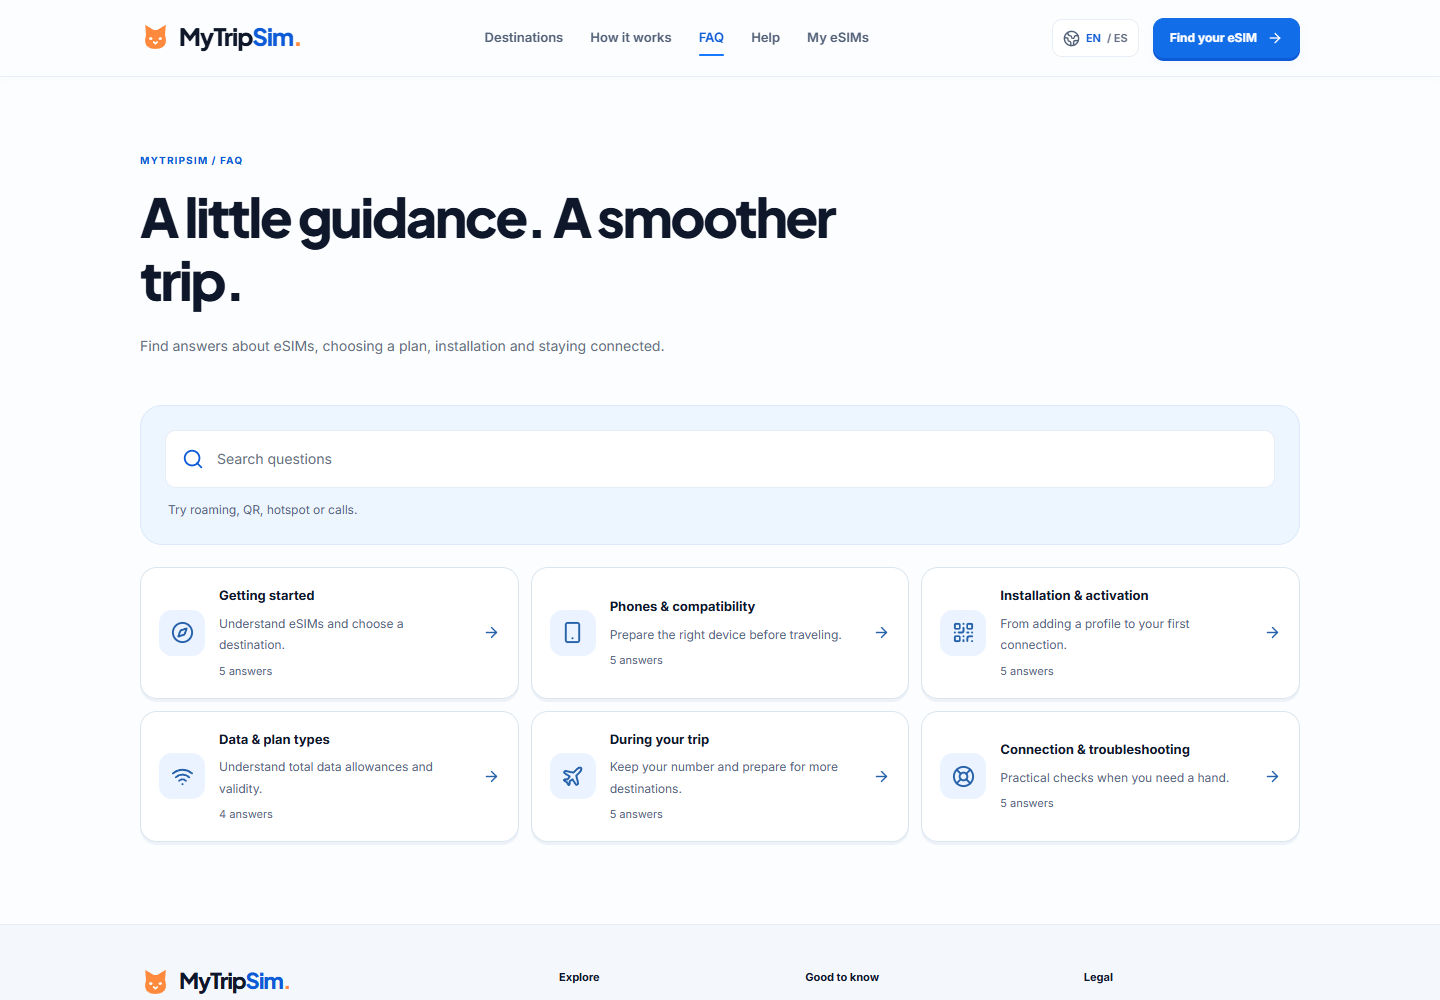
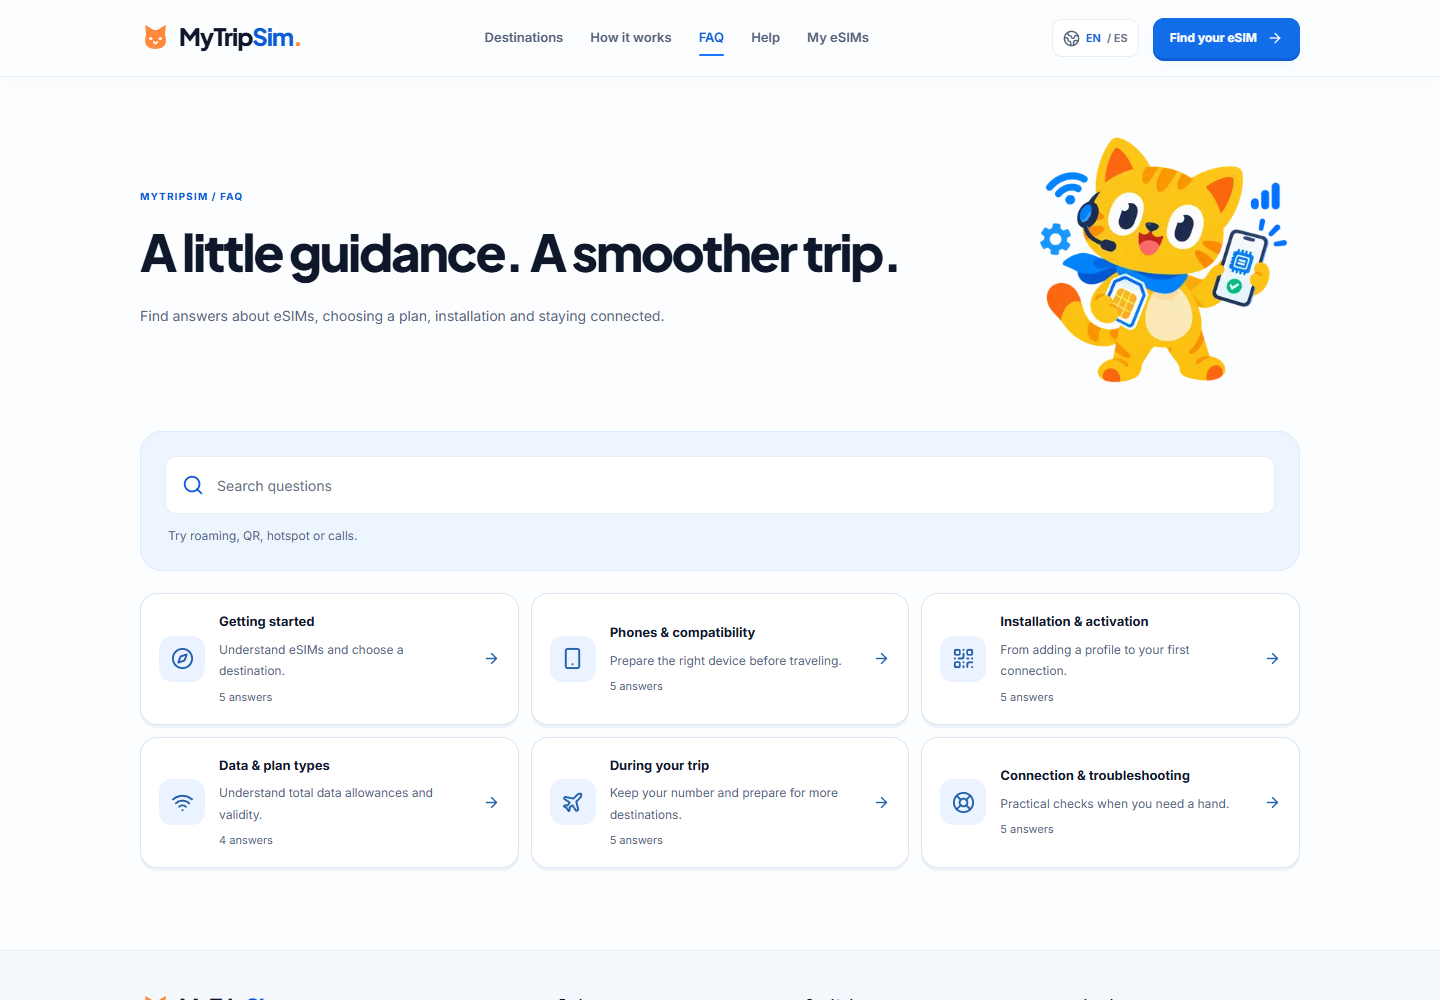
feat: integrate SIM mascot across home and guides

diff --git a/src/styles/sim-mascot.css b/src/styles/sim-mascot.css
@@ -1,0 +1,182 @@
+.sim-mascot {
+  display: block;
+  max-width: 100%;
+  height: auto;
+  object-fit: contain;
+}
+.sim-hero-visual {
+  min-width: 0;
+  position: relative;
+  display: grid;
+  justify-items: center;
+  align-content: center;
+  width: 100%;
+  max-width: 490px;
+  margin-inline: auto;
+  isolation: isolate;
+}
+.sim-hero-visual::before {
+  content: "";
+  position: absolute;
+  inset: 7% 6% 17%;
+  border-radius: 50%;
+  background: #edf5ff;
+  z-index: -1;
+}
+.sim-hero-mascot {
+  width: 440px;
+}
+.sim-hero-status {
+  display: flex;
+  align-items: center;
+  gap: 11px;
+  padding: 12px 17px;
+  background: #fff;
+  border: 1px solid #dbe5ef;
+  border-radius: 15px;
+  box-shadow: 0 4px 0 #edf2f8;
+  margin-top: -8px;
+  position: relative;
+}
+.sim-hero-status > svg {
+  flex-shrink: 0;
+  color: #175ca6;
+}
+.sim-hero-status strong {
+  display: block;
+  color: #233c5c;
+  font-size: 12px;
+  line-height: 1.7;
+}
+.sim-hero-status span {
+  display: block;
+  color: #56677e;
+  font-size: 11px;
+  margin-top: 2px;
+}
+.sim-hero-caption {
+  font-size: 11px;
+  line-height: 1.8;
+  color: #56677e;
+  text-align: center;
+  margin-top: 15px;
+}
+.sim-faq-heading {
+  display: grid;
+  grid-template-columns: minmax(0, 1fr) 280px;
+  align-items: center;
+  gap: 45px;
+  padding-block: 42px 32px;
+}
+.sim-faq-copy .eyebrow {
+  margin-bottom: 17px;
+}
+.sim-faq-copy h1 {
+  font-size: clamp(34px, 4.5vw, 51px);
+  line-height: 1.2;
+  font-weight: 800;
+  letter-spacing: -0.045em;
+  text-wrap: balance;
+}
+.sim-faq-copy > p:last-child {
+  color: #56677e;
+  font-size: 14px;
+  line-height: 1.9;
+  margin-top: 21px;
+  max-width: 650px;
+}
+.faq-sim-mascot {
+  width: 280px;
+  justify-self: center;
+}
+.how-heading:has(.how-sim-mascot) {
+  padding-top: 24px;
+}
+.how-sim-mascot {
+  width: 208px;
+  margin: 0 auto 15px;
+}
+@media (max-width: 900px) {
+  .sim-faq-heading {
+    grid-template-columns: minmax(0, 1fr) 220px;
+    gap: 25px;
+  }
+  .faq-sim-mascot {
+    width: 220px;
+  }
+}
+@media (max-width: 650px) {
+  .sim-hero-visual {
+    grid-template-columns: 132px minmax(0, 1fr);
+    gap: 7px;
+    max-width: none;
+    background: #edf5ff;
+    border: 1px solid #dceafb;
+    border-radius: 20px;
+    padding: 5px 12px 5px 2px;
+  }
+  .sim-hero-visual::before {
+    display: none;
+  }
+  .sim-hero-mascot {
+    width: 132px;
+  }
+  .sim-hero-status {
+    padding: 0;
+    background: transparent;
+    border: 0;
+    box-shadow: none;
+    margin: 0;
+    gap: 7px;
+  }
+  .sim-hero-status strong {
+    font-size: 11px;
+  }
+  .sim-hero-status span {
+    font-size: 10px;
+  }
+  .sim-hero-caption {
+    display: none;
+  }
+  .sim-faq-heading {
+    grid-template-columns: 1fr;
+    gap: 17px;
+    padding-block: 22px 27px;
+    text-align: center;
+  }
+  .faq-sim-mascot {
+    grid-row: 1;
+    width: 136px;
+  }
+  .sim-faq-copy h1 {
+    font-size: 34px;
+  }
+  .sim-faq-copy .eyebrow {
+    justify-content: center;
+    margin-bottom: 13px;
+  }
+  .sim-faq-copy > p:last-child {
+    font-size: 13px;
+    margin-top: 16px;
+  }
+  .how-sim-mascot {
+    width: 144px;
+    margin-bottom: 13px;
+  }
+  .how-heading:has(.how-sim-mascot) {
+    padding-top: 20px;
+  }
+}
+@media (max-width: 360px) {
+  .sim-hero-visual {
+    grid-template-columns: 110px minmax(0, 1fr);
+    gap: 4px;
+    padding-right: 9px;
+  }
+  .sim-hero-mascot {
+    width: 110px;
+  }
+  .sim-hero-status > svg {
+    display: none;
+  }
+}

diff --git a/src/components/home/hero.tsx b/src/components/home/hero.tsx
@@ -1,7 +1,7 @@
-import { Check, Plane, Signal, Wifi } from "lucide-react";
+import { Check } from "lucide-react";
 import { dictionaries, type Locale } from "@/lib/i18n";
 import { DestinationSearch } from "../destination-search";
-import { MascotIllustration } from "../illustrations";
+import { SimMascot } from "../sim-mascot";
 
 export function Hero({ locale }: { locale: Locale }) {
   const t = dictionaries[locale];
@@ -24,46 +24,22 @@ export function Hero({ locale }: { locale: Locale }) {
           {t.heroNote}
         </p>
       </div>
-      <div className="hero-visual" aria-label={t.visualTag}>
-        <div className="travel-backdrop" aria-hidden="true">
-          <span className="travel-cloud cloud-one" />
-          <span className="travel-cloud cloud-two" />
-          <span className="travel-sun" />
-          <span className="travel-horizon" />
-        </div>
-        <svg
-          className="flight-path"
-          viewBox="0 0 460 420"
-          fill="none"
-          aria-hidden="true"
-        >
-          <path
-            d="M48 180C40 65 230 5 355 90c76 53 53 154-30 162"
-            stroke="#C3DAEF"
-            strokeWidth="2"
-            strokeDasharray="5 8"
-          />
-        </svg>
-        <span className="floating-icon wifi-float">
-          <Wifi size={26} strokeWidth={2.2} />
-        </span>
-        <span className="floating-icon plane-float">
-          <Plane size={25} strokeWidth={1.8} />
-        </span>
-        <div className="mascot-stage">
-          <MascotIllustration className="hero-mascot" />
-        </div>
-        <div className="connection-card">
-          <span className="connection-check">
-            <Check size={17} />
-          </span>
+      <div className="sim-hero-visual">
+        <SimMascot
+          variant="traveler"
+          locale={locale}
+          className="sim-hero-mascot"
+          sizes="(max-width: 360px) 110px, (max-width: 650px) 132px, 440px"
+          eager
+        />
+        <div className="sim-hero-status">
+          <Check size={20} aria-hidden="true" />
           <div>
             <strong>{t.visualStatus}</strong>
             <span>MyTripSim eSIM</span>
           </div>
-          <Signal size={21} />
         </div>
-        <p className="visual-caption">{t.visualLabel}</p>
+        <p className="sim-hero-caption">{t.visualLabel}</p>
       </div>
     </section>
   );

diff --git a/src/app/[locale]/[page]/page.tsx b/src/app/[locale]/[page]/page.tsx
@@ -8,6 +8,7 @@ import { HelpHub } from "@/components/help-hub";
 import { helpContent } from "@/lib/help-content";
 import { catalogCopy } from "@/lib/catalog-copy";
 import { HowItWorksPage } from "@/components/how-it-works-page";
+import { SimMascot } from "@/components/sim-mascot";
 import {
   dictionaries,
   isLocale,
@@ -113,11 +114,28 @@ export default async function ContentPage({
   const [title, description] = heading(locale, key);
   return (
     <>
-      <section className="page-heading container">
-        <p className="eyebrow">MYTRIPSIM / {t.nav[key]}</p>
-        <h1>{title}</h1>
-        <p>{description}</p>
-      </section>
+      {key === "faq" ? (
+        <header className="container sim-faq-heading">
+          <div className="sim-faq-copy">
+            <p className="eyebrow">MYTRIPSIM / {t.nav.faq}</p>
+            <h1>{title}</h1>
+            <p>{description}</p>
+          </div>
+          <SimMascot
+            variant="help"
+            locale={locale}
+            className="faq-sim-mascot"
+            sizes="(max-width: 650px) 136px, (max-width: 900px) 220px, 280px"
+            eager
+          />
+        </header>
+      ) : (
+        <section className="page-heading container">
+          <p className="eyebrow">MYTRIPSIM / {t.nav[key]}</p>
+          <h1>{title}</h1>
+          <p>{description}</p>
+        </section>
+      )}
       {key === "destinations" && (
         <section className="container directory-section">
           <DestinationDirectory locale={locale} />

diff --git a/src/components/sim-mascot.tsx b/src/components/sim-mascot.tsx
@@ -1,0 +1,48 @@
+import Image from "next/image";
+import type { Locale } from "@/lib/i18n";
+
+const illustrations = {
+  traveler: {
+    src: "/images/sim/sim_traveler.png",
+    es: "SIM, la mascota de MyTripSim, viajando con su maleta",
+    en: "SIM, the MyTripSim mascot, travelling with a suitcase",
+  },
+  help: {
+    src: "/images/sim/sim_help.png",
+    es: "SIM con sus auriculares y un teléfono, listo para ayudarte",
+    en: "SIM wearing a headset and holding a phone, ready to help",
+  },
+  adventurer: {
+    src: "/images/sim/sim_adeventurer.png",
+    es: "SIM aventurero volando sobre una tarjeta SIM",
+    en: "SIM the adventurer flying on a SIM card",
+  },
+} as const;
+
+export function SimMascot({
+  variant,
+  locale,
+  className = "",
+  sizes,
+  eager = false,
+}: {
+  variant: keyof typeof illustrations;
+  locale: Locale;
+  className?: string;
+  sizes: string;
+  eager?: boolean;
+}) {
+  const illustration = illustrations[variant];
+  return (
+    <Image
+      className={`sim-mascot ${className}`}
+      src={illustration.src}
+      alt={illustration[locale]}
+      width={1280}
+      height={1280}
+      sizes={sizes}
+      loading={eager ? "eager" : "lazy"}
+      fetchPriority={eager ? "high" : undefined}
+    />
+  );
+}

diff --git a/src/components/how-it-works-page.tsx b/src/components/how-it-works-page.tsx
@@ -12,6 +12,7 @@ import {
 import { dictionaries, pathFor, type Locale } from "@/lib/i18n";
 import { experiencePath } from "@/lib/experience-routes";
 import { catalogCopy } from "@/lib/catalog-copy";
+import { SimMascot } from "./sim-mascot";
 
 export function HowItWorksPage({ locale }: { locale: Locale }) {
   const t = dictionaries[locale];
@@ -20,6 +21,13 @@ export function HowItWorksPage({ locale }: { locale: Locale }) {
   return (
     <div className="container how-page">
       <header className="how-heading">
+        <SimMascot
+          variant="adventurer"
+          locale={locale}
+          className="how-sim-mascot"
+          sizes="(max-width: 650px) 144px, 208px"
+          eager
+        />
         <p className="eyebrow">MYTRIPSIM / {t.nav.how}</p>
         <h1>{t.howTitle}</h1>
         <p>{t.howDescription}</p>

diff --git a/src/app/layout.tsx b/src/app/layout.tsx
@@ -9,6 +9,7 @@ import "@/styles/experience.css";
 import "@/styles/compatibility.css";
 import "@/styles/plan-selection.css";
 import "@/styles/how-it-works.css";
+import "@/styles/sim-mascot.css";
 
 export const viewport: Viewport = {
   width: "device-width",

diff --git a/docs/verification.md b/docs/verification.md
@@ -1,5 +1,11 @@
 # Verification — 2026-10-23
 
+## SIM mascot illustrations — 2026-10-24
+
+The supplied transparent PNG illustrations are now mapped through a shared `SimMascot` image component: Traveler replaces the old hero character, Help accompanies the FAQ directory heading, and Adventurer sits in the centered How it works heading. The source file `sim_adeventurer.png` retains its existing spelling. Original images are unmodified; `next/image` supplies responsive sources with intrinsic dimensions and localized alternative text. The home hero uses a simple backdrop and compact status label instead of duplicating the illustration's own travel symbols. On phones, its compact image/status row keeps destination search first. FAQ topic pages retain their independent question layout.
+
+Production build including TypeScript, lint and formatting passed. All twenty existing site/FAQ desktop/mobile browser scenarios passed. A focused audit of the six localized home, FAQ-directory and How it works pages returned no findings across seven widths (320–1440px), with axe WCAG A/AA checks at 360/1440px including FAQ search results. Reviewed the [Traveler hero](previews/home-desktop.png), [compact mobile hero](previews/mobile-app.png), [Help FAQ heading](previews/faq-desktop.png) and [Adventurer heading](previews/how-mobile.png). No additional services or credentials were introduced.
+
 ## Organized How it works page — 2026-10-24
 
 The localized How it works page now has a dedicated server-rendered layout and scoped styles. A centered introduction, a numbered three-card sequence and a preparation panel share one bounded reading grid. Preparation groups the checklist with compatibility/installation links, and the destination/FAQ actions sit together in one footer row (stacked at phone widths). Long checklist and card text stay left-aligned for reading. The home page's shared Steps component and the existing metadata/routes remain in place.

diff --git a/README.md b/README.md
@@ -28,7 +28,7 @@ No se necesitan variables de entorno ni credenciales para esta fase. `.env.examp
 
 - Next.js App Router, TypeScript estricto, Tailwind CSS 4, Lucide, ESLint y Prettier. Componentes nativos accesibles en lugar de agregar una biblioteca de UI sin necesidad.
 - Portada breve con búsqueda, duración opcional, seis destinos destacados y enlaces a páginas independientes de guías y FAQ.
-- Identidad azul/naranja, Plus Jakarta Sans e Inter mediante `next/font`, sistema de tokens, gato viajero SVG original y miniaturas ilustradas reemplazables mediante `next/image`.
+- Identidad azul/naranja, Plus Jakarta Sans e Inter mediante `next/font`, sistema de tokens y mascota SIM: Traveler en la portada, Help en el índice FAQ y Adventurer en Cómo funciona. Las imágenes originales de `public/images/sim/` conservan su transparencia y se sirven mediante `next/image` con tamaños adaptables.
 - Diccionarios centralizados, rutas traducidas y cambio de idioma que conserva la página equivalente. El cambio de idioma realiza navegación de documento para actualizar correctamente `<html lang>`; el resto utiliza navegación de Next.js.
 - Búsqueda local insensible a mayúsculas y tildes, alias en ambos idiomas, teclado, cierre con Escape y estados vacíos.
 - Directorio buscable con categorías y carga progresiva: 202 países/territorios y 39 regiones. Cada destino tiene todos sus planes fijos.
